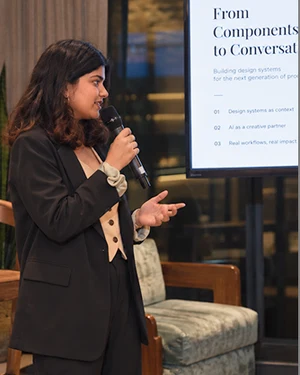
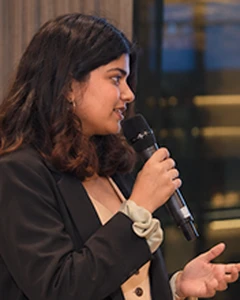
Variation: smaller photo, cropped on face, no label
Claude-Session: https://claude.ai/code/session_01WMgqFAy6XUwLNfTBoE4fLd

diff --git a/index.html b/index.html
@@ -43,8 +43,7 @@
     <section class="hero wrap">
       <div class="hero__name">
         <figure class="hero-photo" id="avatar">
-          <img src="assets/img/me-speaking.webp" alt="Sreesha speaking at an AI design talk" width="150" height="188">
-          <figcaption class="glow">invited speaker</figcaption>
+          <img src="assets/img/me-speaking.webp" alt="Sreesha speaking at an AI design talk" width="104" height="130">
         </figure>
         <p class="hero__hi">hi, it’s sreesha</p>
         <h1 class="hero__tagline glow"><span class="sr-only">system-oriented product designer</span><span class="type" id="typed" aria-hidden="true"></span><span class="caret" aria-hidden="true"></span></h1>

diff --git a/css/style.css b/css/style.css
@@ -231,7 +231,7 @@ main, .footer { position: relative; z-index: 1; }
 @keyframes fadeout { to { opacity: 0; } }
 
 /* hero photo (variation): a tilted polaroid of me speaking */
-.hero-photo { position: relative; width: 150px; margin: 0 0 10px; padding: 6px 6px 7px; background: #fff;
+.hero-photo { position: relative; width: 104px; margin: 0 0 8px; padding: 4px 4px 5px; background: #fff;
   box-shadow: 0 1px 2px rgba(0,0,0,.08), 0 10px 24px rgba(0,0,0,.12); transform: rotate(-3deg);
   transition: transform .45s cubic-bezier(.3,1.5,.5,1), box-shadow .3s; }
 .hero-photo img { display: block; width: 100%; height: auto; aspect-ratio: 4 / 5; object-fit: cover; }
